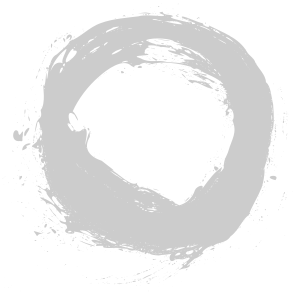
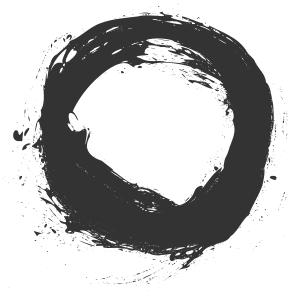
Layout improvements

diff --git a/dishonored.css b/dishonored.css
@@ -16,8 +16,6 @@
     flex-direction: column;
     align-items: center;
     justify-content: space-between;
-    border-radius: 50%;
-    border: 1px solid #999;
     text-align: center;
     padding: 0 5em;
     background-image: url("https://gogs.vanhulst.one/vanhulst/Dishonored_character_sheet/raw/branch/master/images/outsider.png");
@@ -105,11 +103,20 @@
 }
 
 .charsheet input[type="number"] {
-    padding-bottom: .5em;
-    border-radius: 50%;
+    padding-bottom: 0;
     width: 3.5em;
     height: 3.5em;
     text-align: center;
+}
+
+.charsheet input[type="number"].sheet-central {
+    width: 7em;
+    height: 7em;
+    background-image: url('https://gogs.vanhulst.one/vanhulst/Dishonored_character_sheet/raw/branch/master/images/circle.png');
+    background-position: bottom;
+    background-size: contain;
+    background-repeat: no-repeat;
+    background-color: transparent;
 }
 
 h2 {

diff --git a/dishonored.html b/dishonored.html
@@ -66,13 +66,15 @@
     </div>
     <div class="center">
         <div>
-            <h2>Stress</h2>
-            <input name="attr_stress" type="number" min="0" max="8" value="0" />
-            / <span name="attr_stress_max"></span>
+            <label>
+                <input class="central" name="attr_stress" type="number" min="0" max="8" value="0" />
+                / <span name="attr_stress_max"></span>
+                <h2>Stress</h2>    
+            </label>
         </div>
         <div>
             <h2>Void Points</h2>
-            <input name="attr_void" type="number" value="0" />    
+            <input class="central" name="attr_void" type="number" value="0" />    
         </div>
     </div>
     <div>
